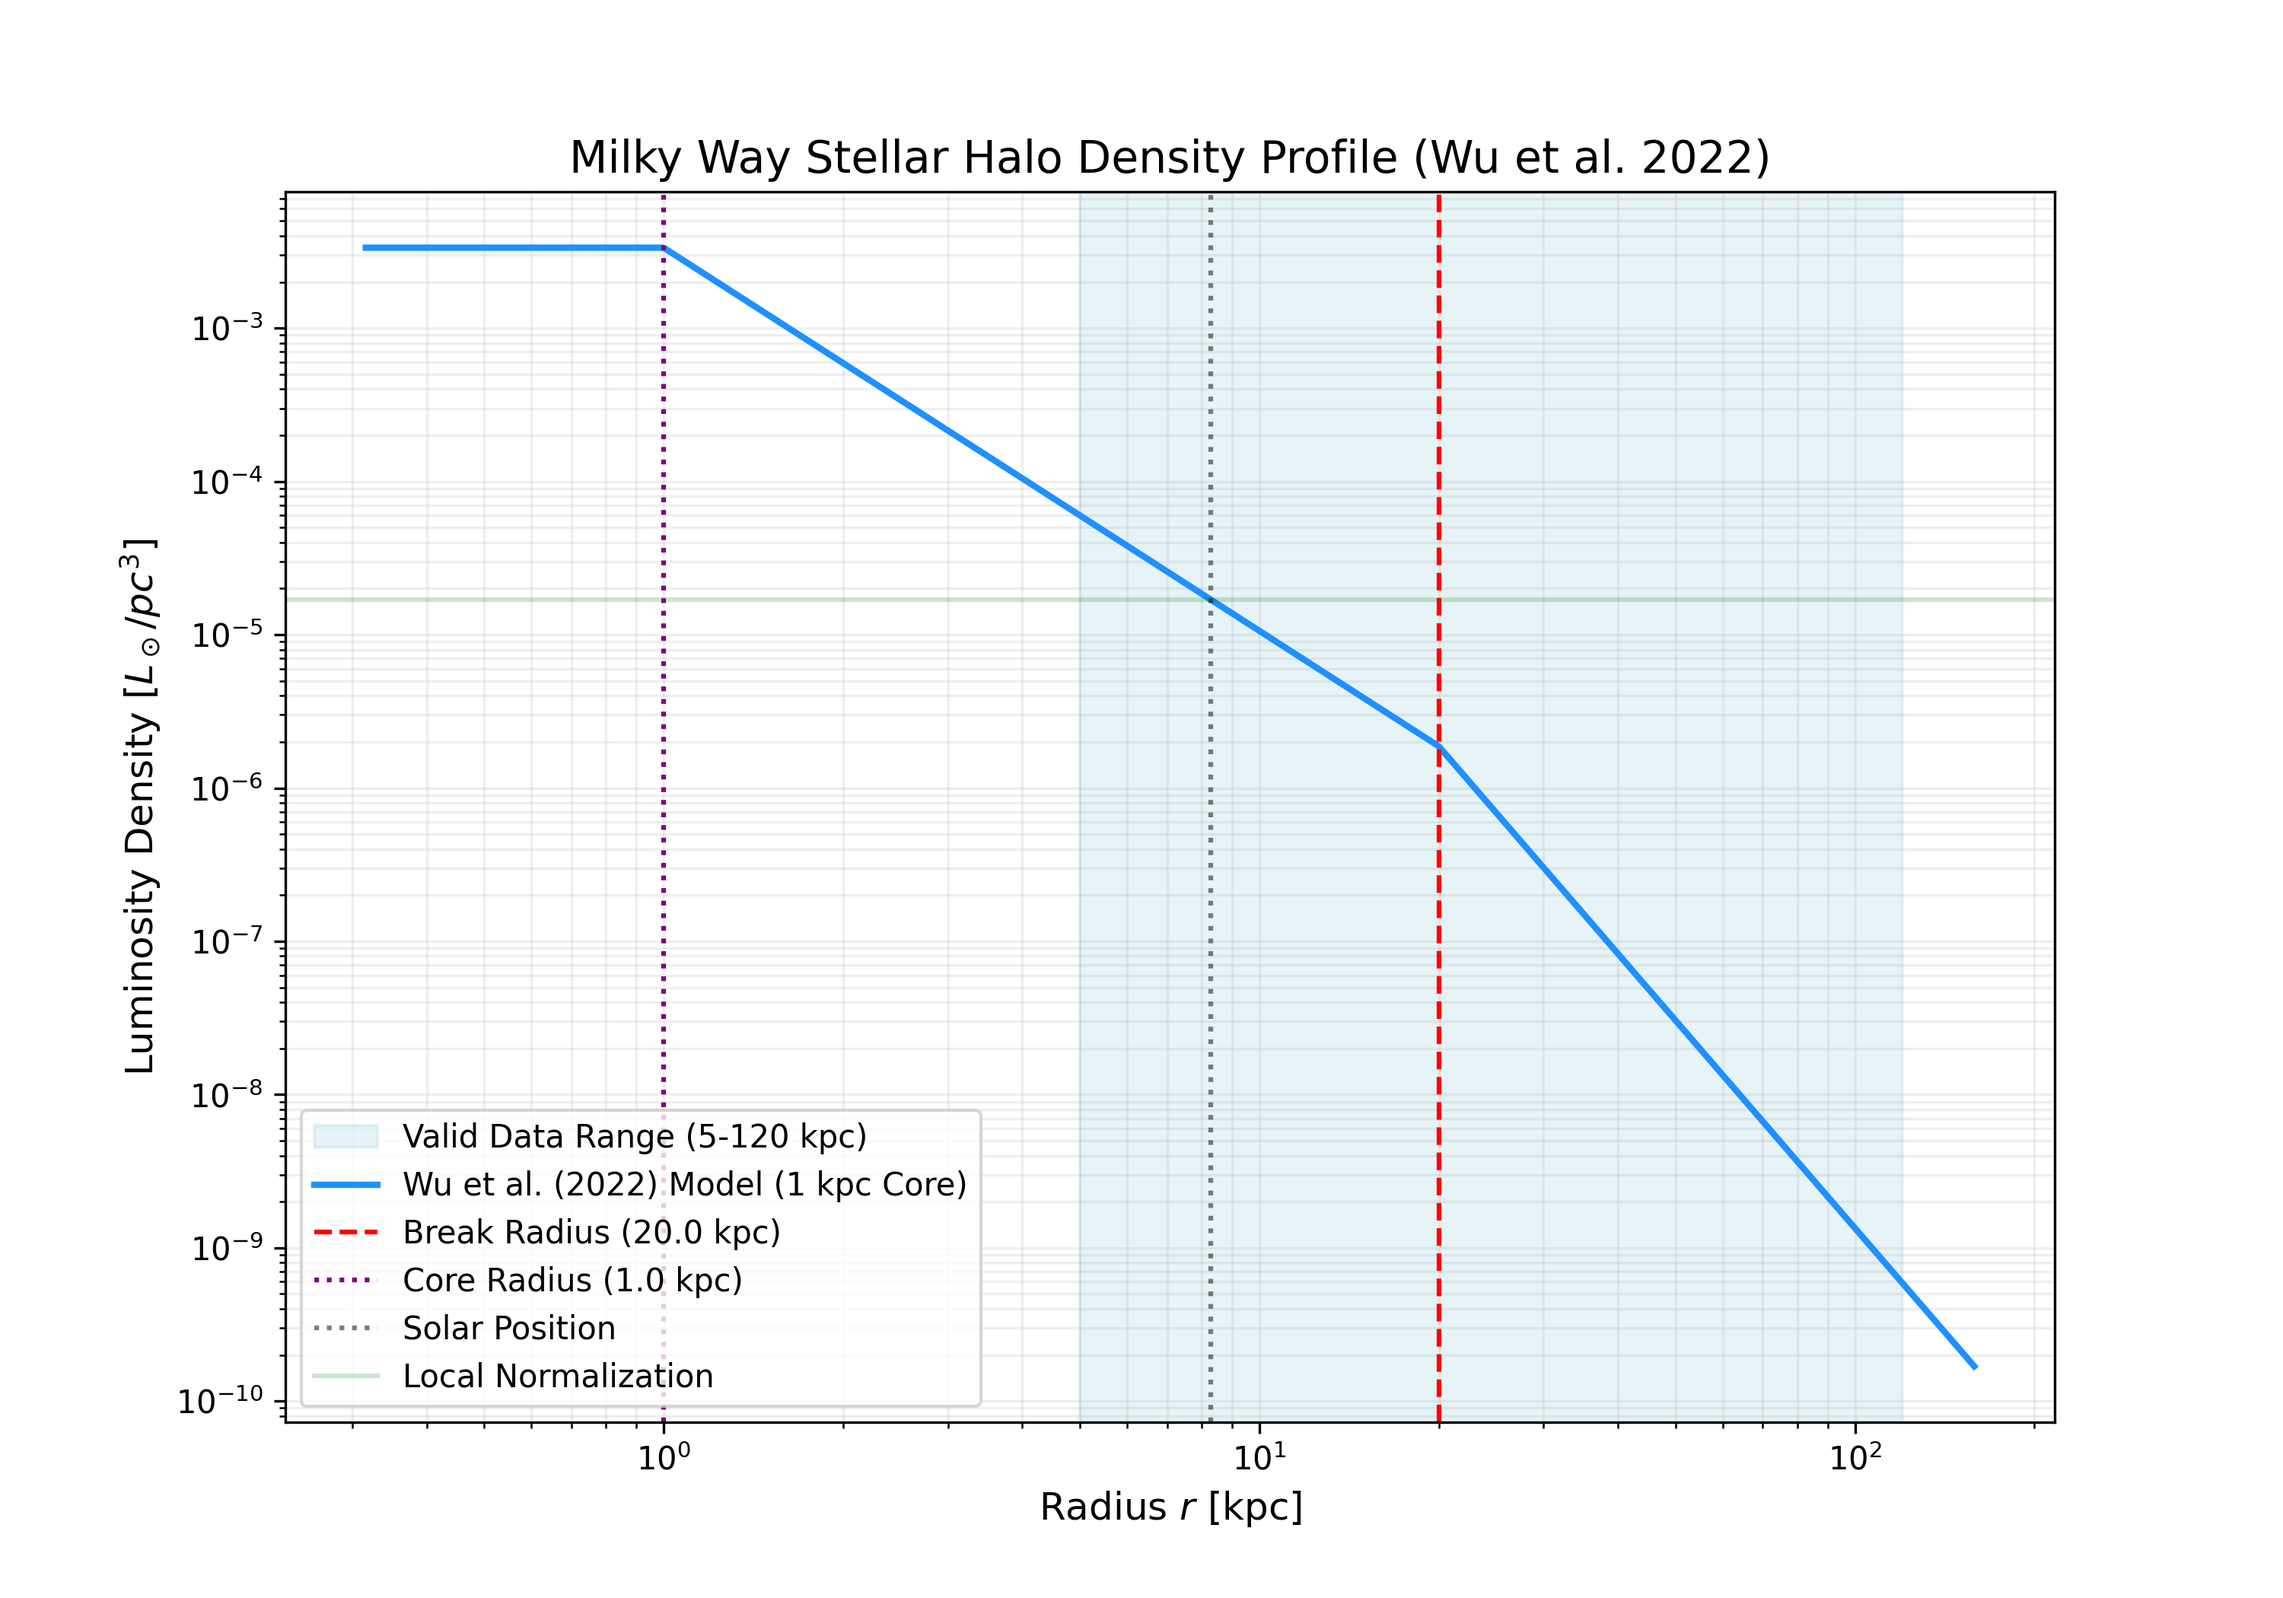
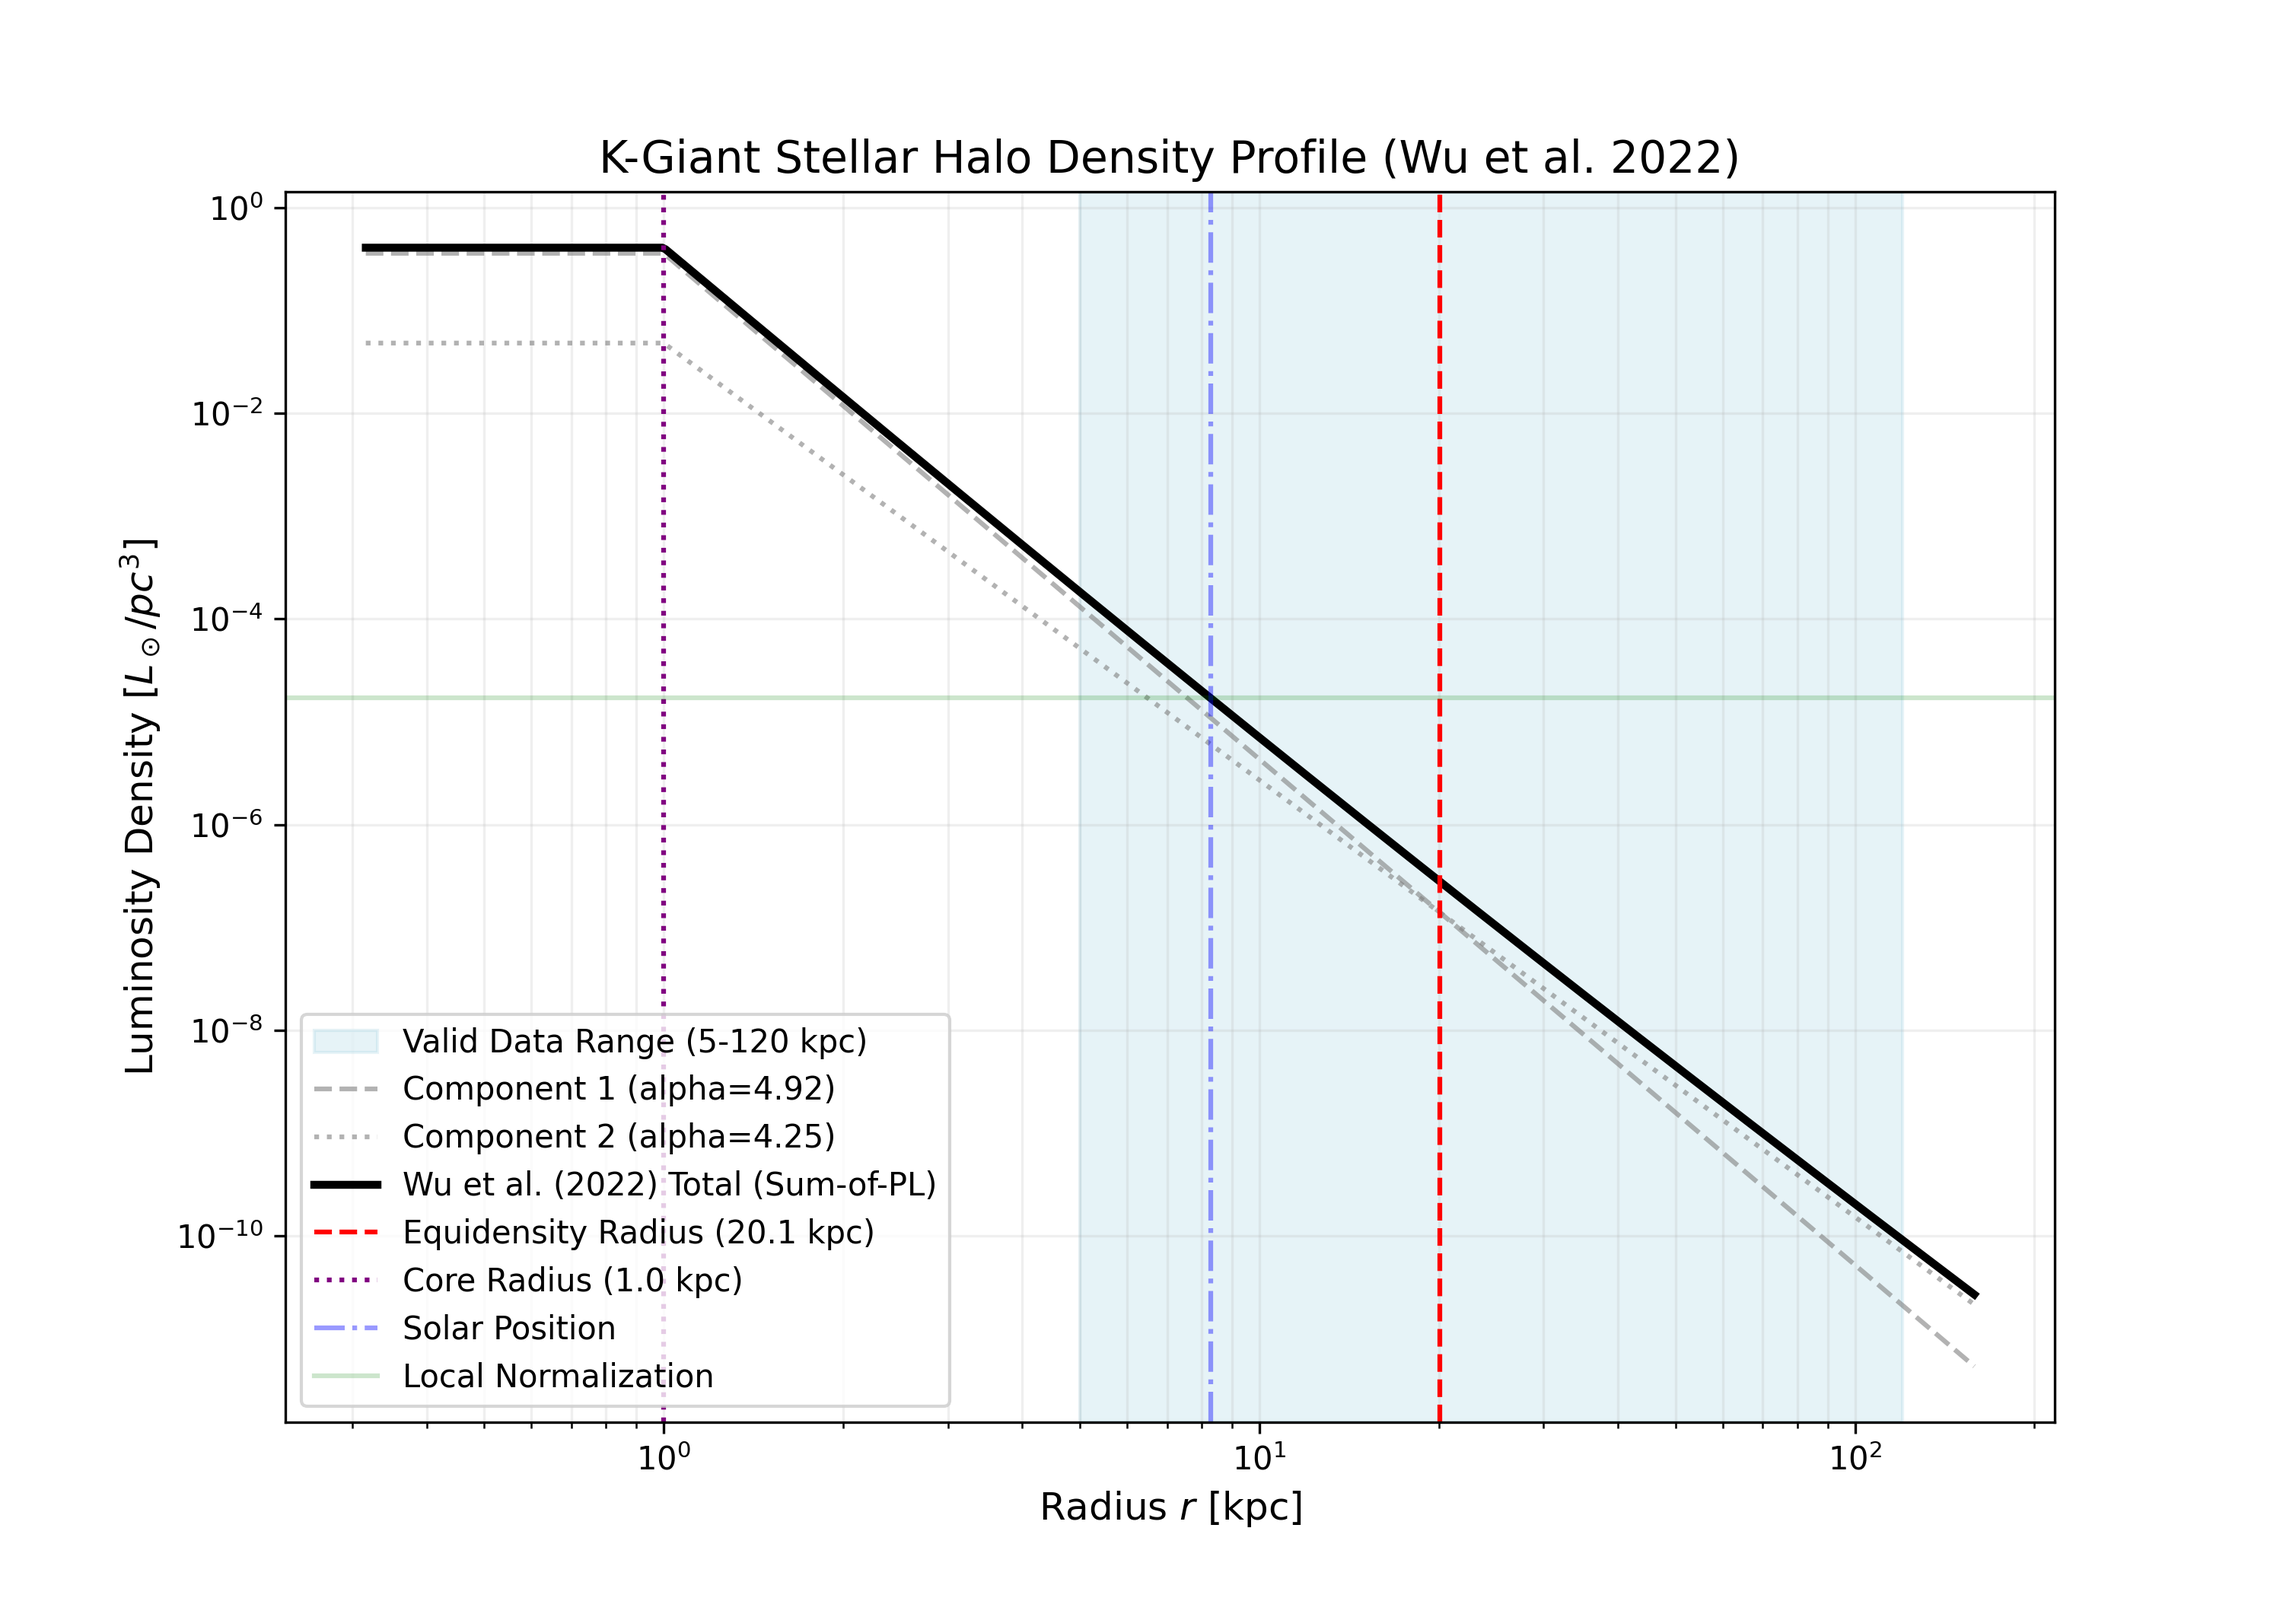
Add files via upload
Wu et al 2022 had major flaws, now addressed. It was showing a broken power law, whereas it's actually two unbroken power laws added together. They are normalised to be the same density at 20.1 kpc (Figure 12 of Wu et al 2022).

diff --git a/script.js b/script.js
@@ -286,10 +286,10 @@ const ModelPhysics = {
     },
 
     wu2022: (r) => {
-        const ai=2.5, ao=4.5, rb=20.0, core=1.0, R_sun=8.275;
+        const a1=4.92, a2=4.25, core=1.0, R_sun=8.275;
+        const r_match = Math.exp(3.0);
         const getRaw = (rad) => {
-            if (rad < rb) return Math.pow(rad, -ai);
-            return Math.pow(rb, ao-ai) * Math.pow(rad, -ao);
+            return Math.pow(r_match, a1 - a2) * Math.pow(rad, -a1) + Math.pow(rad, -a2);
         };
         const rho_norm = (1.7e-5) / getRaw(R_sun);
         return ModelPhysics.applyCore(r, core, (rad) => rho_norm * getRaw(rad));
@@ -643,11 +643,40 @@ function renderUnifiedPlot(model, containerId = 'unifiedPlotContainer') {
             name: 'Flattening q', xaxis: 'x', yaxis: 'y2', hoverinfo: 'x+y'
         });
 
+        // Specific handling for Wu 2022 components
+        if (model.id === 'wu2022') {
+            const a1 = 4.92, a2 = 4.25, core = 1.0, R_sun = 8.275;
+            const r_match = Math.exp(3.0);
+            const getRawShape = (rad) => Math.pow(r_match, a1 - a2) * Math.pow(rad, -a1) + Math.pow(rad, -a2);
+            const rho_norm = (1.7e-5) / getRawShape(R_sun);
+
+            const comp1_vals = r_vals.map(r => {
+                const val = rho_norm * Math.pow(r_match, a1 - a2) * Math.pow(Math.max(r, core), -a1);
+                return val;
+            });
+            const comp2_vals = r_vals.map(r => {
+                const val = rho_norm * Math.pow(Math.max(r, core), -a2);
+                return val;
+            });
+
+            traces.push({
+                x: r_vals, y: comp1_vals, mode: 'lines',
+                line: { color: 'gray', width: 2, dash: 'dash' },
+                name: 'Component 1 (α=4.92)', xaxis: 'x', yaxis: 'y', hoverinfo: 'x+y'
+            });
+            traces.push({
+                x: r_vals, y: comp2_vals, mode: 'lines',
+                line: { color: 'gray', width: 2, dash: 'dot' },
+                name: 'Component 2 (α=4.25)', xaxis: 'x', yaxis: 'y', hoverinfo: 'x+y'
+            });
+        }
+
         // Trace 2: Density rho (Lower Panel)
         traces.push({
             x: r_vals, y: rho_vals, mode: 'lines',
-            line: { color: '#2c3e50', width: 3 },
-            name: 'Luminosity Density', xaxis: 'x', yaxis: 'y', hoverinfo: 'x+y'
+            line: { color: model.id === 'wu2022' ? 'black' : '#2c3e50', width: 3.5 },
+            name: model.id === 'wu2022' ? 'Total Density (Sum)' : 'Luminosity Density', 
+            xaxis: 'x', yaxis: 'y', hoverinfo: 'x+y'
         });
 
         const shapes = [

diff --git a/assets/wu2022_density_model.py b/assets/wu2022_density_model.py
@@ -4,14 +4,15 @@ from scipy.integrate import quad
 
 def calculate_wu2022_halo():
     # Parameters from Wu et al. (2022) - AJ 164, 41
-    # Model: Double Power Law (BHB stars)
-    alpha_in = 2.5
-    alpha_out = 4.5
-    r_break = 20.0
+    # Model: Sum of two power laws
+    a1 = 4.92
+    a2 = 4.25
     r_core = 1.0   # 1 kpc constant density core (project requirement)
     
+    # Matching radius: ln(R) = 3.0 => R ~ 20.0855 kpc
+    r_match = np.exp(3.0) 
+    
     # Variable flattening q(r)
-    # Similar to 2025 paper: q ~ 0.4 inner, q ~ 0.8 outer
     def q_func(r):
         if r < 8: return 0.4
         if r > 25: return 0.8
@@ -23,51 +24,73 @@ def calculate_wu2022_halo():
     rho_local_Lsun_pc3 = 1.7e-5
     rho_local_Lsun_kpc3 = rho_local_Lsun_pc3 * (1000**3)
 
-    # Double Power Law Profile with Core
-    def profile(r):
-        if r < r_core:
-            return r_core**-alpha_in
-        elif r < r_break:
-            return r**-alpha_in
-        else:
-            return (r_break**(alpha_out - alpha_in)) * (r**-alpha_out)
+    # Sum of two power laws: rho = rho1*r^-a1 + rho2*r^-a2
+    # Condition: rho1 * r_match^-a1 = rho2 * r_match^-a2
+    # rho1 = rho2 * r_match^(a1 - a2)
+    # Total profile f(r) = r_match^(a1-a2) * r^-a1 + r^-a2
+    
+    def get_raw_profile(r):
+        term1 = (r_match**(a1 - a2)) * (r**-a1)
+        term2 = r**-a2
+        return term1 + term2
 
     # Normalization at the Sun
-    norm_at_sun = profile(R_sun)
-    rho_0 = rho_local_Lsun_kpc3 / norm_at_sun
+    # Apply 1 kpc core to the RAW profile shape
+    def profile_with_core(r):
+        if r < r_core:
+            return get_raw_profile(r_core)
+        return get_raw_profile(r)
+
+    norm_at_sun = profile_with_core(R_sun)
+    rho_0_unit = rho_local_Lsun_kpc3 / norm_at_sun
+
+    # Final Density Function (Lsun/kpc^3)
+    def density_kpc3(r):
+        return rho_0_unit * profile_with_core(r)
 
     # Numerical Integration for Luminosity
+    # L = 4 * pi * Integral[ q(r) * rho(r) * r^2 dr ]
     def integrand(r):
-        return q_func(r) * profile(r) * r**2
+        return q_func(r) * density_kpc3(r) * r**2
     
     result, error = quad(integrand, 0.0, 150.0)
-    L_total = 4 * np.pi * rho_0 * result
+    L_total = 4 * np.pi * result
 
-    print(f"--- Wu et al. (2022) BHB Halo Properties ---")
-    print(f"Central Norm (rho_0 at 1kpc): {rho_0:.2e} Lsun/kpc^3")
-    print(f"Total Halo Luminosity:        {L_total:.2e} Lsun")
-    print(f"Break Radius (r_break):       {r_break} kpc")
-    print(f"Core Radius (r_core):         {r_core} kpc")
-    print(f"Inner Slope (alpha_in):       {alpha_in}")
-    print(f"Outer Slope (alpha_out):      {alpha_out}")
-    print(f"Flattening (q):               0.4 (inner) to 0.8 (outer)")
+    print(f"--- Wu et al. (2022) K Giant Halo Properties ---")
+    print(f"Model:                Sum of two Power Laws")
+    print(f"Total Halo Luminosity: {L_total:.2e} Lsun")
+    print(f"Alpha 1 (Inner-ish):   {a1}")
+    print(f"Alpha 2 (Outer-ish):   {a2}")
+    print(f"Match Radius:          {r_match:.2f} kpc")
+    print(f"Core Radius:           {r_core} kpc")
+    print(f"Flattening (q):        0.4 (inner) to 0.8 (outer)")
     print(f"--------------------------------------------")
 
     # Plotting
     r_vals = np.logspace(-0.5, 2.2, 500)
-    rho_vals = np.array([rho_0 * profile(r) for r in r_vals])
+    rho_vals = np.array([density_kpc3(r) for r in r_vals])
+    
+    # Components for plotting
+    term1_vals = np.array([rho_0_unit * (r_match**(a1 - a2)) * (max(r, r_core)**-a1) for r in r_vals])
+    term2_vals = np.array([rho_0_unit * (max(r, r_core)**-a2) for r in r_vals])
 
     plt.figure(figsize=(10, 7))
     plt.axvspan(5, 120, color='lightblue', alpha=0.3, label='Valid Data Range (5-120 kpc)')
-    plt.loglog(r_vals, rho_vals / (1000**3), color='dodgerblue', linewidth=2, label='Wu et al. (2022) Model (1 kpc Core)')
+    
+    # Plot components
+    plt.loglog(r_vals, term1_vals / (1000**3), color='gray', linestyle='--', alpha=0.6, label=f'Component 1 (alpha={a1})')
+    plt.loglog(r_vals, term2_vals / (1000**3), color='gray', linestyle=':', alpha=0.6, label=f'Component 2 (alpha={a2})')
+    
+    # Plot sum
+    plt.loglog(r_vals, rho_vals / (1000**3), color='black', linewidth=2.5, label='Wu et al. (2022) Total (Sum-of-PL)')
     
     # Markers
-    plt.axvline(r_break, color='red', linestyle='--', label=f'Break Radius ({r_break} kpc)')
+    plt.axvline(r_match, color='red', linestyle='--', label=f'Equidensity Radius ({r_match:.1f} kpc)')
     plt.axvline(r_core, color='purple', linestyle=':', label=f'Core Radius ({r_core} kpc)')
-    plt.axvline(R_sun, color='black', linestyle=':', alpha=0.5, label='Solar Position')
+    plt.axvline(R_sun, color='blue', linestyle='-.', alpha=0.4, label='Solar Position')
     plt.axhline(rho_local_Lsun_pc3, color='green', linestyle='-', alpha=0.2, label='Local Normalization')
 
-    plt.title('Milky Way Stellar Halo Density Profile (Wu et al. 2022)', fontsize=14)
+    plt.title('K-Giant Stellar Halo Density Profile (Wu et al. 2022)', fontsize=14)
     plt.xlabel('Radius $r$ [kpc]', fontsize=12)
     plt.ylabel('Luminosity Density [$L_\\odot/pc^3$]', fontsize=12)
     plt.legend(frameon=True)
